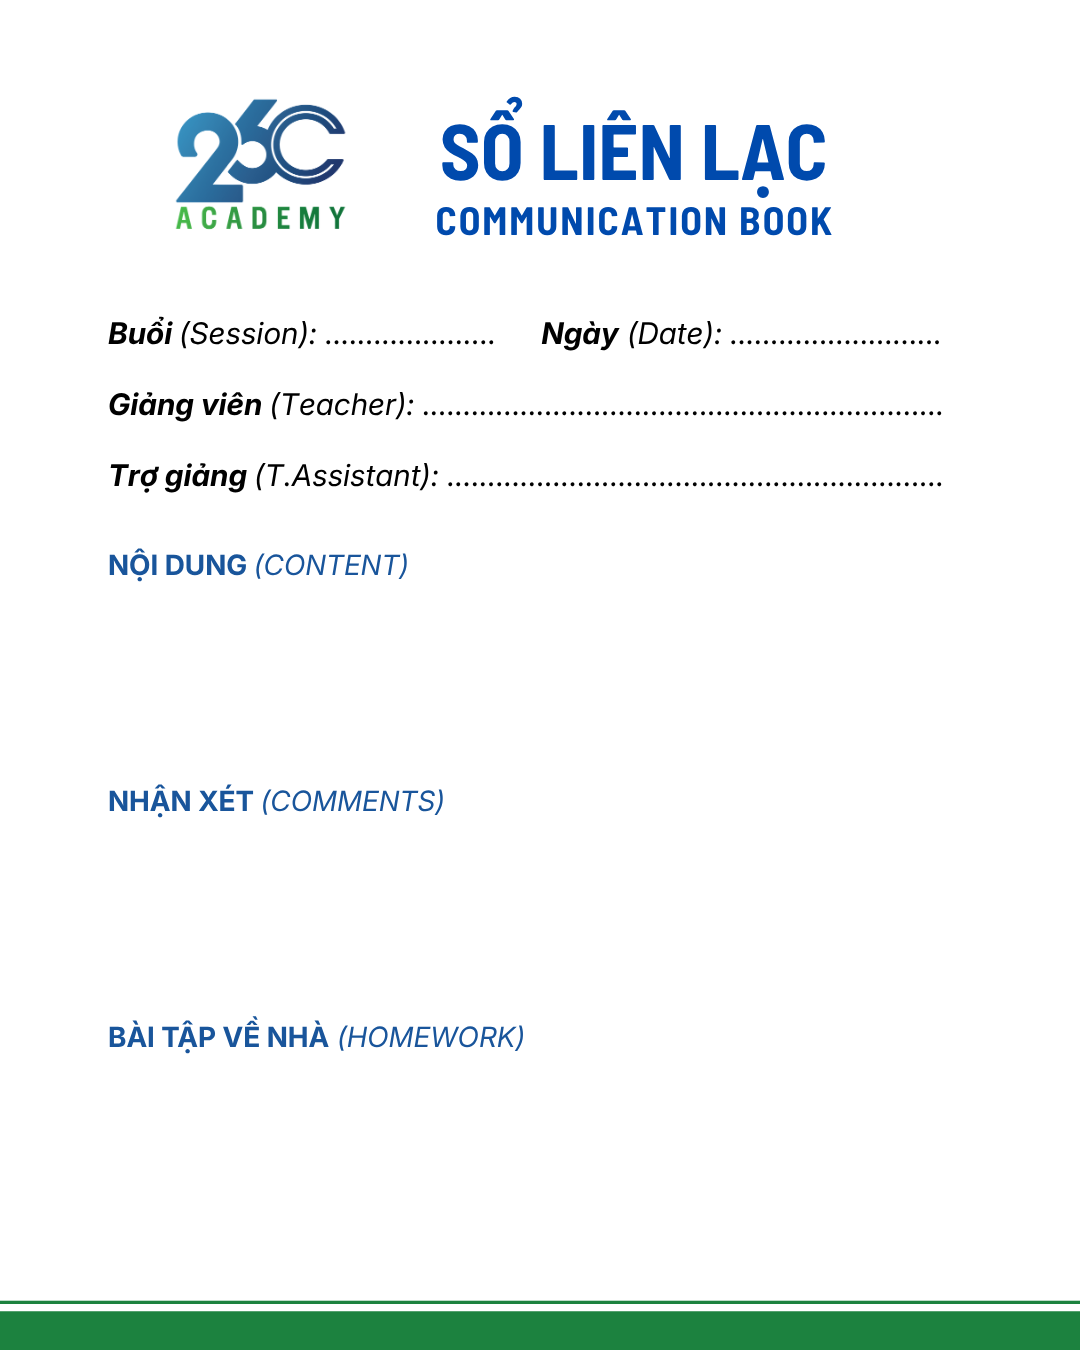
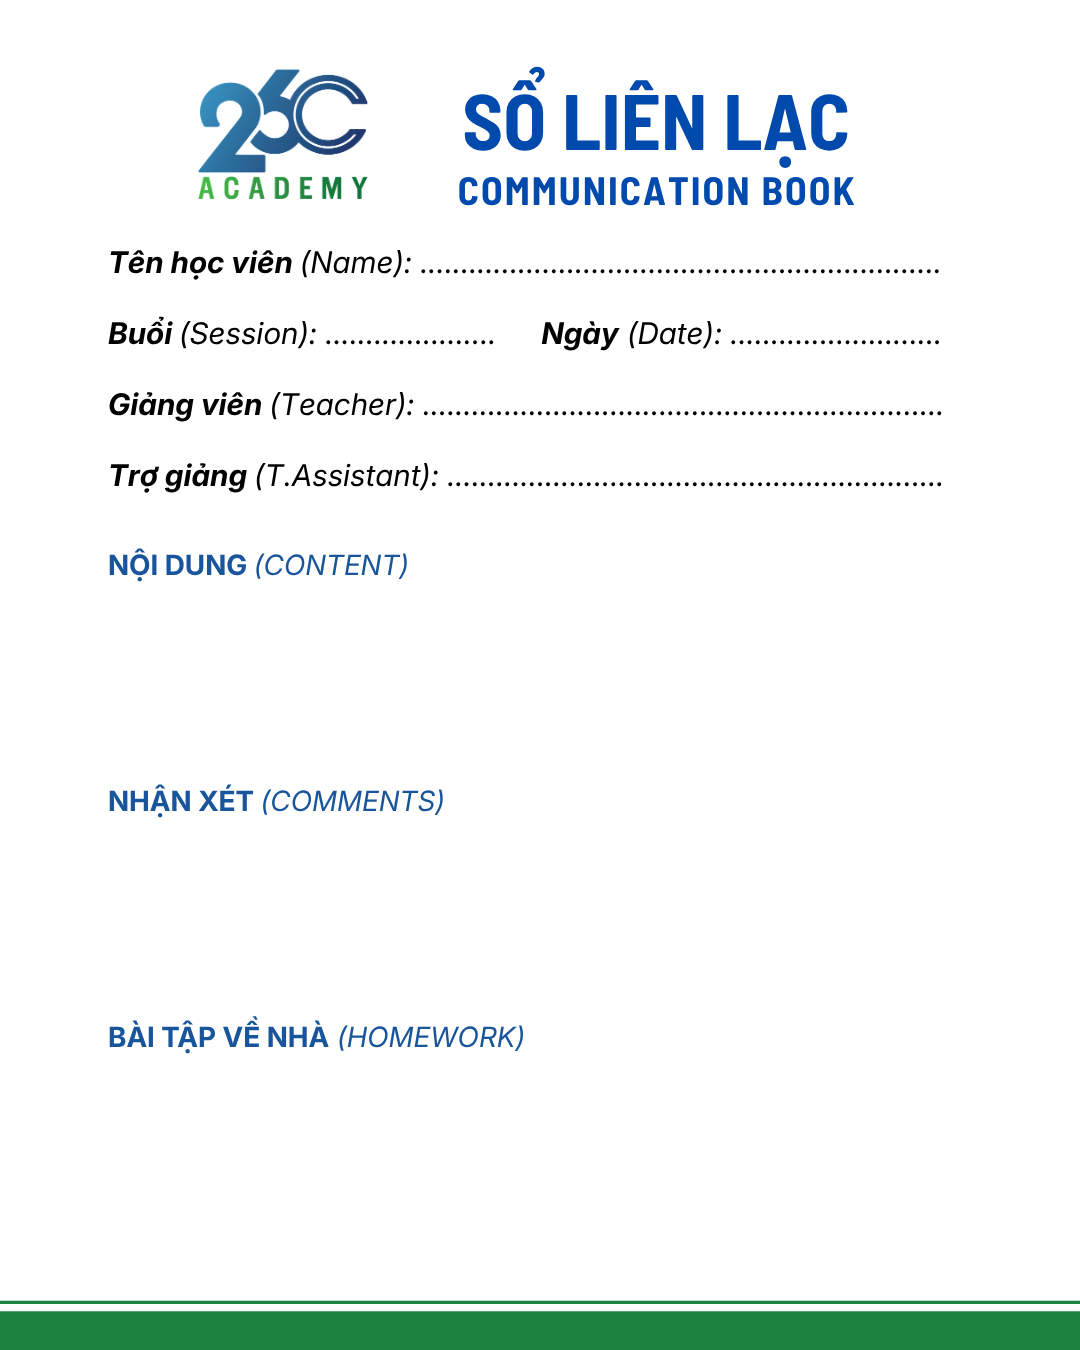
feat: add Tên học viên field and Voice-to-Text capability

Changed region(s): [[0.3972, 0.0311, 0.7944, 0.1867], [0.0917, 0.0311, 0.3667, 0.2178]]

diff --git a/src/App.tsx b/src/App.tsx
@@ -17,8 +17,29 @@ const FONTS = [
   { name: "HLHOCTRO", label: "HL Học Trò (Nét thanh thoát)" },
 ];
 
+function VoiceInputButton({ isListening, onStart }: { isListening: boolean; onStart: () => void }) {
+  return (
+    <button
+      type="button"
+      onClick={onStart}
+      className={`inline-flex items-center gap-1 px-2 py-1 text-xs rounded-md transition-colors border ${
+        isListening
+          ? "bg-red-50 text-red-600 border-red-200 animate-pulse"
+          : "bg-gray-50 text-gray-600 border-gray-200 hover:bg-blue-50 hover:text-blue-600 hover:border-blue-200"
+      }`}
+      title="Nhập bằng giọng nói"
+    >
+      <svg xmlns="http://www.w3.org/2000/svg" className="h-3 w-3" viewBox="0 0 20 20" fill="currentColor">
+        <path fillRule="evenodd" d="M7 4a3 3 0 016 0v4a3 3 0 11-6 0V4zm4 10.93A7.001 7.001 0 0017 8a1 1 0 10-2 0A5 5 0 015 8a1 1 0 00-2 0 7.001 7.001 0 006 6.93V17H6a1 1 0 100 2h8a1 1 0 100-2h-3v-2.07z" clipRule="evenodd" />
+      </svg>
+      {isListening ? "Đang nghe..." : "Giọng nói"}
+    </button>
+  );
+}
+
 function App() {
   const [formData, setFormData] = useState<FormData>({
+    studentName: "",
     session: "",
     date: getTodayDateString(),
     teacher: "",
@@ -29,6 +50,7 @@ function App() {
   });
 
   const [fontFamily, setFontFamily] = useState(FONTS[0].name);
+  const [listeningField, setListeningField] = useState<string | null>(null);
 
   const canvasRef = useRef<CanvasEditorRef>(null);
 
@@ -43,6 +65,45 @@ function App() {
     if (canvasRef.current) {
       canvasRef.current.download();
     }
+  };
+
+  const startVoiceDictation = (fieldName: string) => {
+    const SpeechRecognition = (window as any).SpeechRecognition || (window as any).webkitSpeechRecognition;
+    if (!SpeechRecognition) {
+      alert("Trình duyệt của bạn không hỗ trợ nhận diện giọng nói. Vui lòng sử dụng Google Chrome hoặc Microsoft Edge.");
+      return;
+    }
+
+    const recognition = new SpeechRecognition();
+    recognition.lang = "vi-VN";
+    recognition.interimResults = false;
+    
+    recognition.onstart = () => {
+      setListeningField(fieldName);
+    };
+    
+    recognition.onresult = (event: any) => {
+      const transcript = event.results[0][0].transcript;
+      setFormData((prev) => {
+        const current = prev[fieldName as keyof FormData];
+        const prefix = current ? current + "\n- " : "- ";
+        return { ...prev, [fieldName]: current ? current + "\n" + transcript : transcript };
+      });
+    };
+    
+    recognition.onerror = (event: any) => {
+      console.error("Speech recognition error:", event.error);
+      if (event.error === "not-allowed") {
+        alert("Vui lòng cấp quyền sử dụng Micro cho trình duyệt để dùng tính năng này.");
+      }
+      setListeningField(null);
+    };
+    
+    recognition.onend = () => {
+      setListeningField(null);
+    };
+    
+    recognition.start();
   };
 
   return (
@@ -85,6 +146,18 @@ function App() {
             </h2>
 
             <div className="space-y-4">
+              <div>
+                <label className="block text-sm font-medium text-gray-700 mb-1">Tên học viên</label>
+                <input
+                  type="text"
+                  name="studentName"
+                  value={formData.studentName}
+                  onChange={handleChange}
+                  placeholder="Tên học viên"
+                  className="w-full px-3 py-2 border border-gray-300 rounded-md focus:ring-2 focus:ring-blue-500 focus:border-blue-500 transition-shadow outline-none text-sm font-medium text-blue-700"
+                />
+              </div>
+
               <div className="grid grid-cols-2 gap-4">
                 <div>
                   <label className="block text-sm font-medium text-gray-700 mb-1">Buổi</label>
@@ -135,9 +208,15 @@ function App() {
               </div>
 
               <div>
-                <label className="block text-sm font-medium text-gray-700 mb-1">
-                  Nội dung (Mỗi ý 1 dòng, tự động gạch đầu dòng)
-                </label>
+                <div className="flex items-center justify-between mb-1">
+                  <label className="block text-sm font-medium text-gray-700">
+                    Nội dung (Mỗi ý 1 dòng)
+                  </label>
+                  <VoiceInputButton
+                    isListening={listeningField === "content"}
+                    onStart={() => startVoiceDictation("content")}
+                  />
+                </div>
                 <textarea
                   name="content"
                   value={formData.content}
@@ -149,9 +228,15 @@ function App() {
               </div>
 
               <div>
-                <label className="block text-sm font-medium text-gray-700 mb-1">
-                  Nhận xét (Mỗi ý 1 dòng, tự động gạch đầu dòng)
-                </label>
+                <div className="flex items-center justify-between mb-1">
+                  <label className="block text-sm font-medium text-gray-700">
+                    Nhận xét (Mỗi ý 1 dòng)
+                  </label>
+                  <VoiceInputButton
+                    isListening={listeningField === "comments"}
+                    onStart={() => startVoiceDictation("comments")}
+                  />
+                </div>
                 <textarea
                   name="comments"
                   value={formData.comments}
@@ -163,9 +248,15 @@ function App() {
               </div>
 
               <div>
-                <label className="block text-sm font-medium text-gray-700 mb-1">
-                  Bài tập về nhà
-                </label>
+                <div className="flex items-center justify-between mb-1">
+                  <label className="block text-sm font-medium text-gray-700">
+                    Bài tập về nhà
+                  </label>
+                  <VoiceInputButton
+                    isListening={listeningField === "homework"}
+                    onStart={() => startVoiceDictation("homework")}
+                  />
+                </div>
                 <textarea
                   name="homework"
                   value={formData.homework}

diff --git a/src/components/CanvasEditor.tsx b/src/components/CanvasEditor.tsx
@@ -1,6 +1,7 @@
 import { useEffect, useRef, useState, type ForwardedRef, forwardRef, useImperativeHandle } from "react";
 
 export interface FormData {
+  studentName: string;
   session: string;
   date: string;
   teacher: string;
@@ -26,6 +27,8 @@ export interface CanvasEditorRef {
 const CONFIG = {
   color: "#0f1b81", // Màu xanh mực bút bi thực tế
   fields: {
+    // Dòng kẻ chấm Tên học viên ở Y=271 (baseline=273)
+    studentName: { x: 450, y: 273, maxWidth: 500, fontSize: 36 },
     // Dòng kẻ chấm Buổi / Ngày ở Y=342 (baseline=344)
     session: { x: 330, y: 344, maxWidth: 150, fontSize: 36 },
     date: { x: 730, y: 344, maxWidth: 240, fontSize: 36 },
@@ -99,14 +102,15 @@ const CanvasEditor = forwardRef(function CanvasEditor(
 
     ctx.fillStyle = CONFIG.color;
 
-    // Hàm vẽ chữ đơn giản (Buổi, Ngày, Giảng viên, Trợ giảng) đặt NGAY TRÊN dòng kẻ chấm
-    const drawSimpleText = (text: string, field: "session" | "date" | "teacher" | "tutor") => {
+    // Hàm vẽ chữ đơn giản đặt NGAY TRÊN dòng kẻ chấm
+    const drawSimpleText = (text: string, field: "studentName" | "session" | "date" | "teacher" | "tutor") => {
       const cfg = CONFIG.fields[field];
       ctx.textBaseline = "bottom"; // Giúp chữ nằm vừa khít lên dòng chấm
       ctx.font = `${cfg.fontSize}px "${fontFamily}"`;
       ctx.fillText(text, cfg.x, cfg.y, cfg.maxWidth);
     };
 
+    drawSimpleText(data.studentName, "studentName");
     drawSimpleText(data.session, "session");
     drawSimpleText(data.date, "date");
     drawSimpleText(data.teacher, "teacher");
